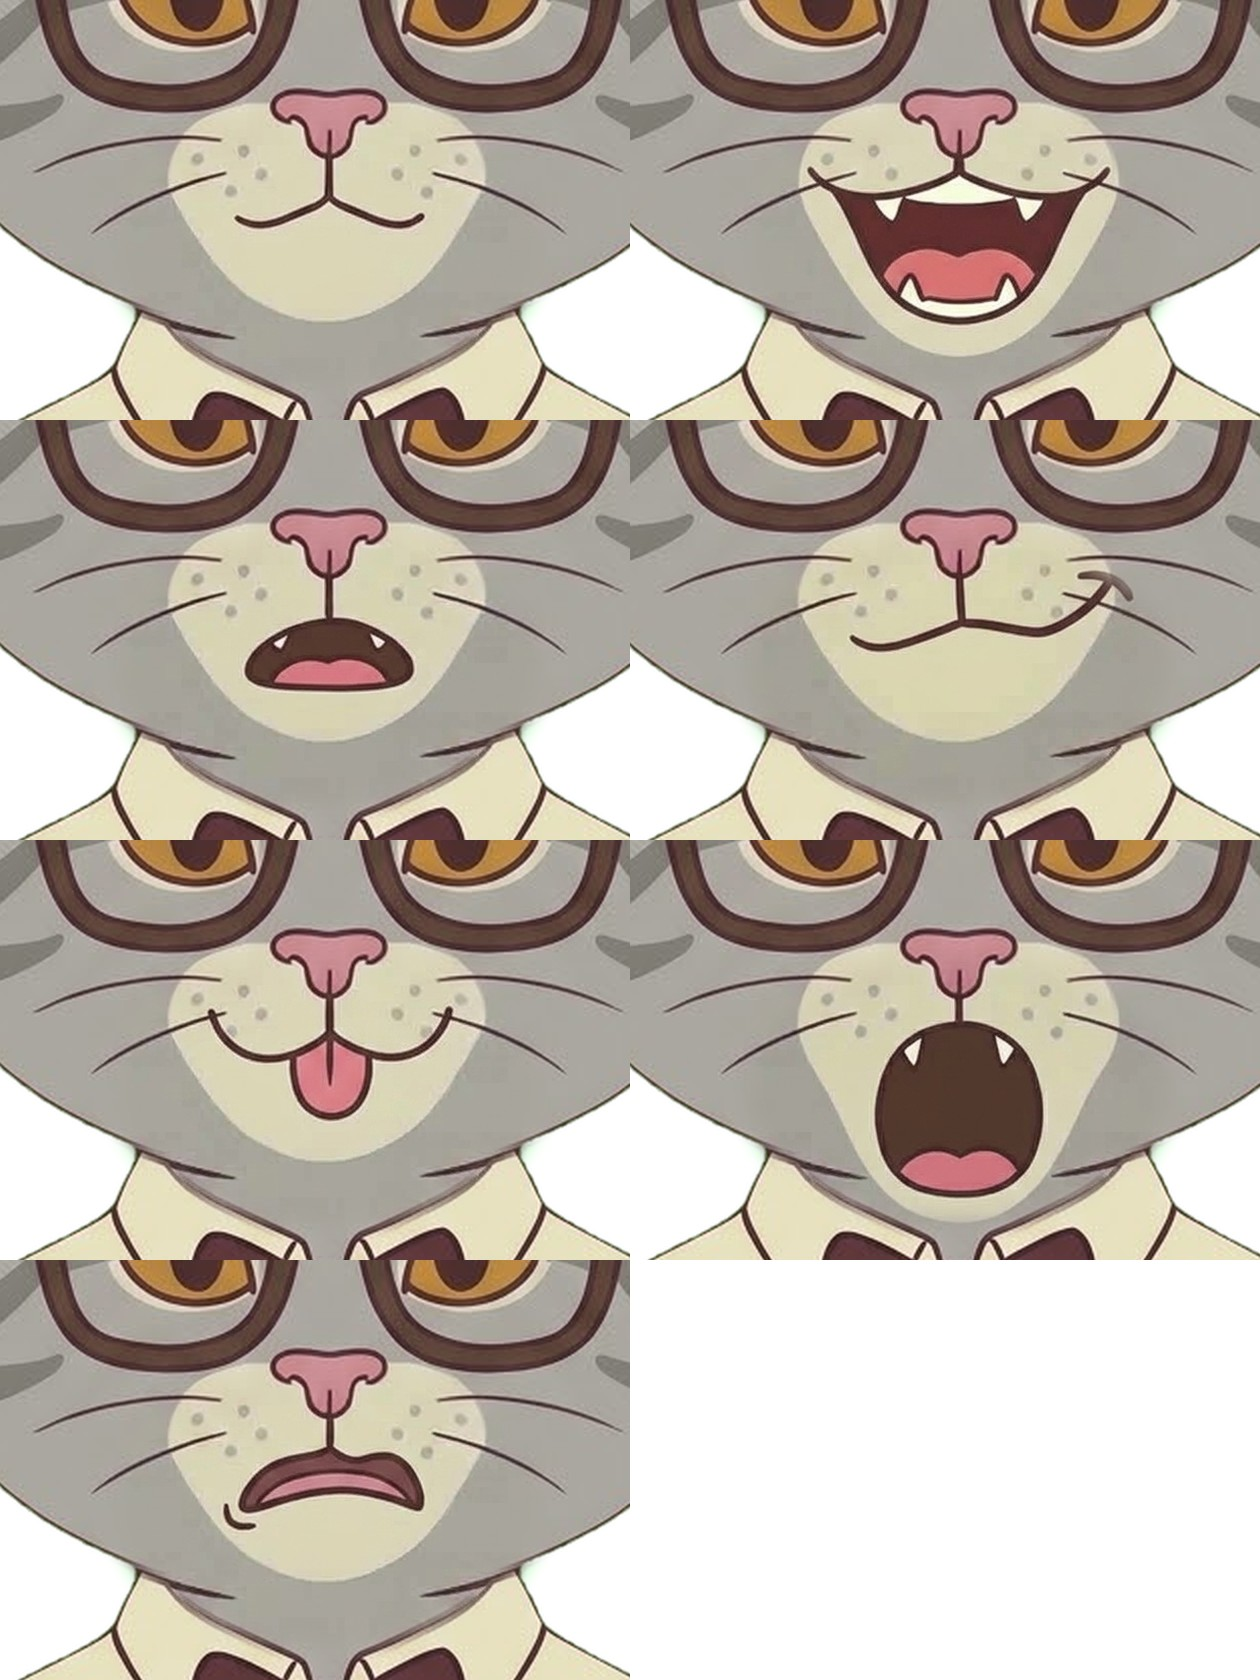
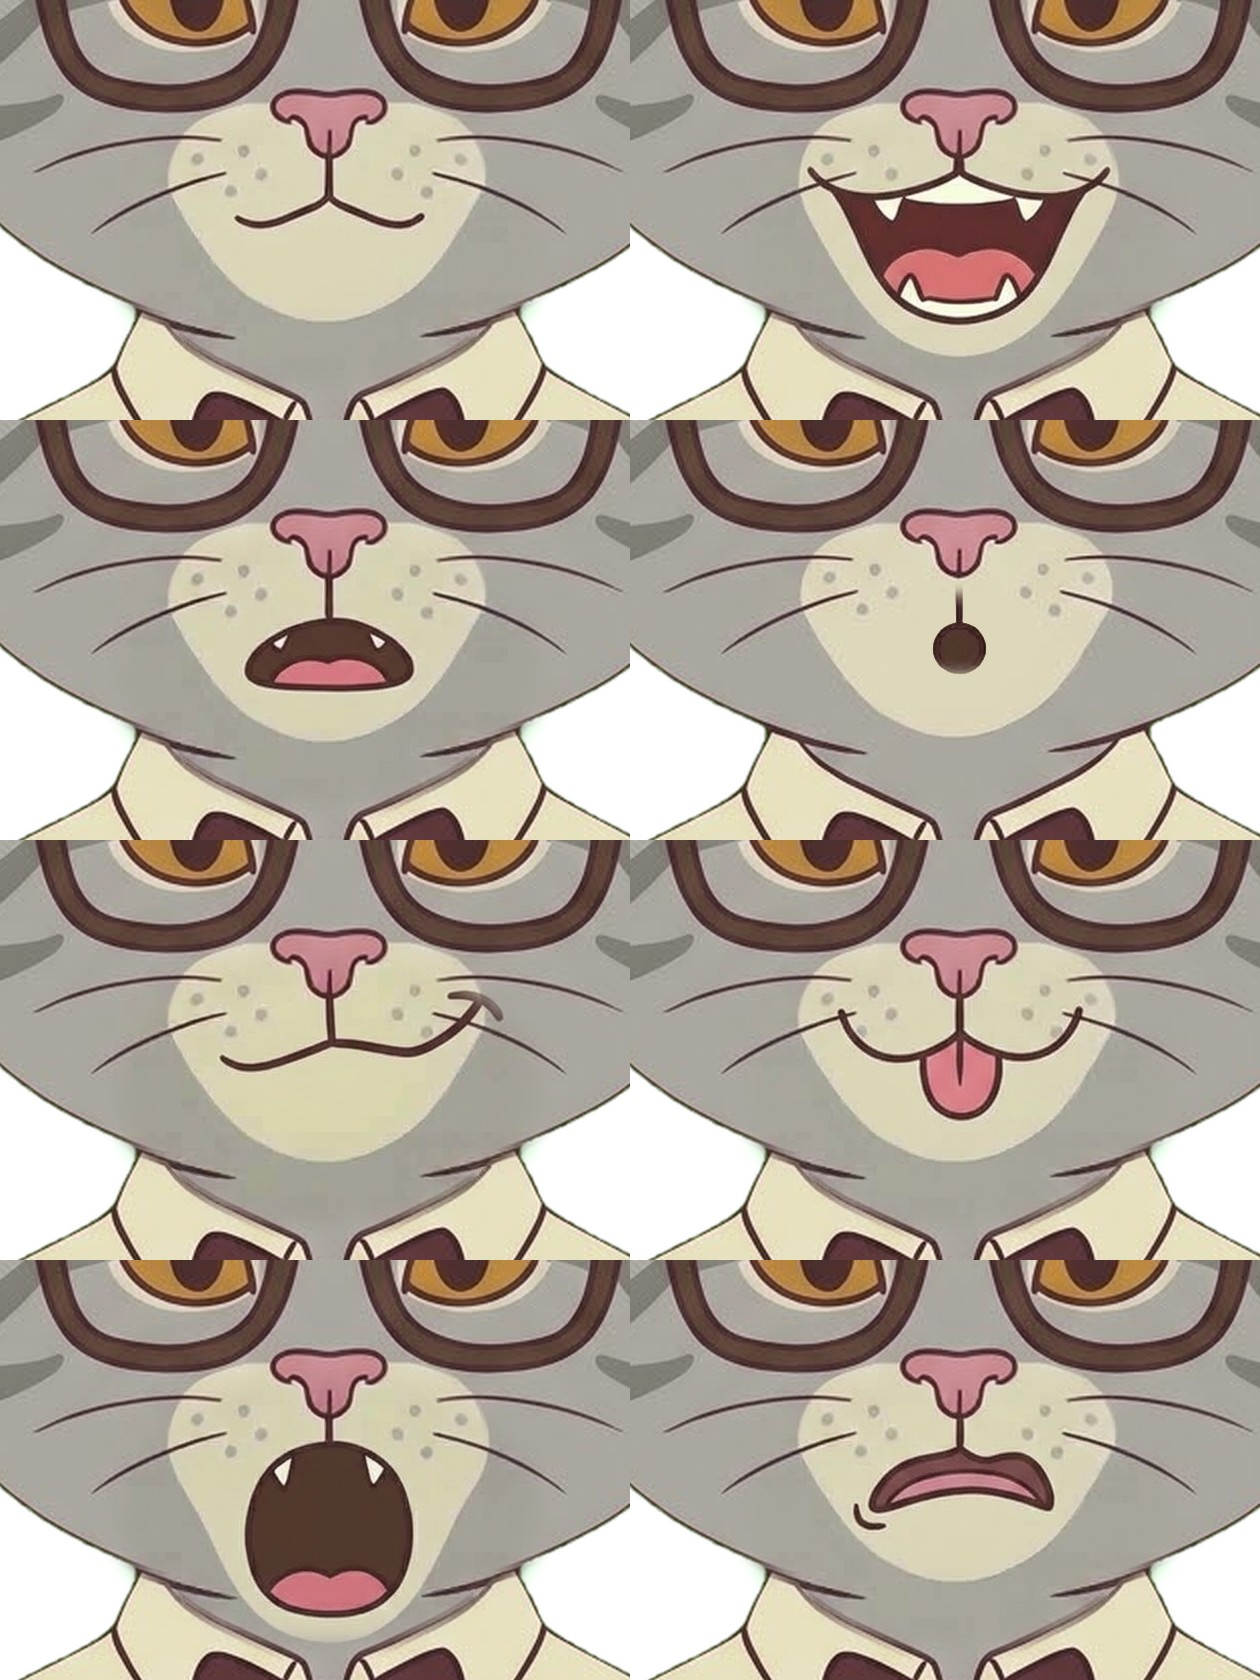
v4: boca redonda (se descarta la sonrisa extra de Gemini recortando solo el círculo)
Claude-Session: https://claude.ai/code/session_01NybaBEBQ36CdbDeKLNGsjf

diff --git a/factory/mascot/v4/parts_mouths_single.py b/factory/mascot/v4/parts_mouths_single.py
@@ -8,6 +8,8 @@ D = os.path.dirname(os.path.abspath(__file__)); V3 = os.path.join(D, "..", "v3")
 sys.path.insert(0, V3)
 import parts as P
 
+CUSTOM = {"round": (470, 655, 590, 732)}      # Gemini añadió una sonrisa extra bajo el círculo: solo se recorta el círculo
+
 def main():
     base = Image.open(os.path.join(V3, "base.png")).convert("RGBA"); size = base.size
     nb = P.nose_box(base, (300, 450, 724, 700)); ncx, nw = (nb[0] + nb[2]) / 2, nb[2] - nb[0]
@@ -18,7 +20,11 @@ def main():
         cell = Image.open(f).convert("RGB")
         b = P.nose_box(cell, (300, 450, 724, 700)); sc = nw / (b[2] - b[0])
         p = P.place(cell.convert("RGBA"), sc, ((b[0] + b[2]) / 2, b[1]), (ncx, nb[1]), size)
-        p.putalpha(Image.fromarray(np.minimum(np.asarray(p.split()[3]), np.asarray(mask))))
+        mk = mask if name not in CUSTOM else P.soft(size, CUSTOM[name], 6)
+        a = np.minimum(np.asarray(p.split()[3]), np.asarray(mk))
+        if name in CUSTOM:      # solo los píxeles oscuros (el trazo): así no arrastra el tono del fondo crema de la imagen de Gemini
+            lum = np.asarray(p.convert('L')).astype(np.float32); a = (a * np.clip((150 - lum) / 40, 0, 1)).astype(np.uint8)
+        p.putalpha(Image.fromarray(a))
         p.save(os.path.join(S, f"mouth_{name}.png")); print(name, "escala", round(sc, 3))
         t = Image.new("RGBA", size, (255, 255, 255, 255)); t.alpha_composite(base); t.alpha_composite(p)
         thumbs.append(t.convert("RGB").crop((200, 480, 830, 900)))
